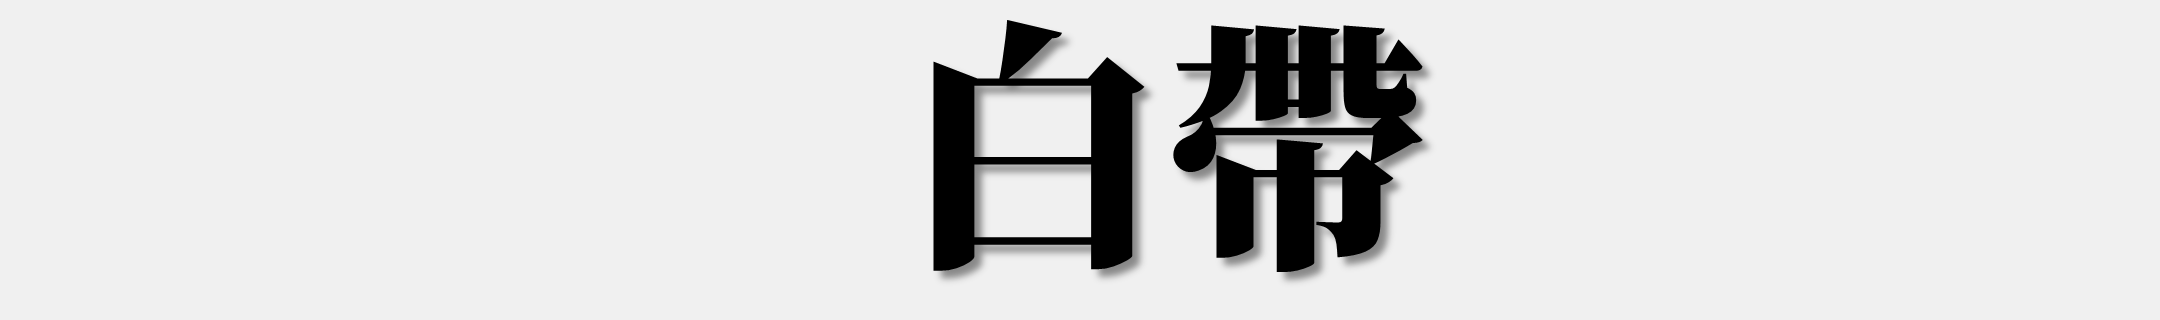
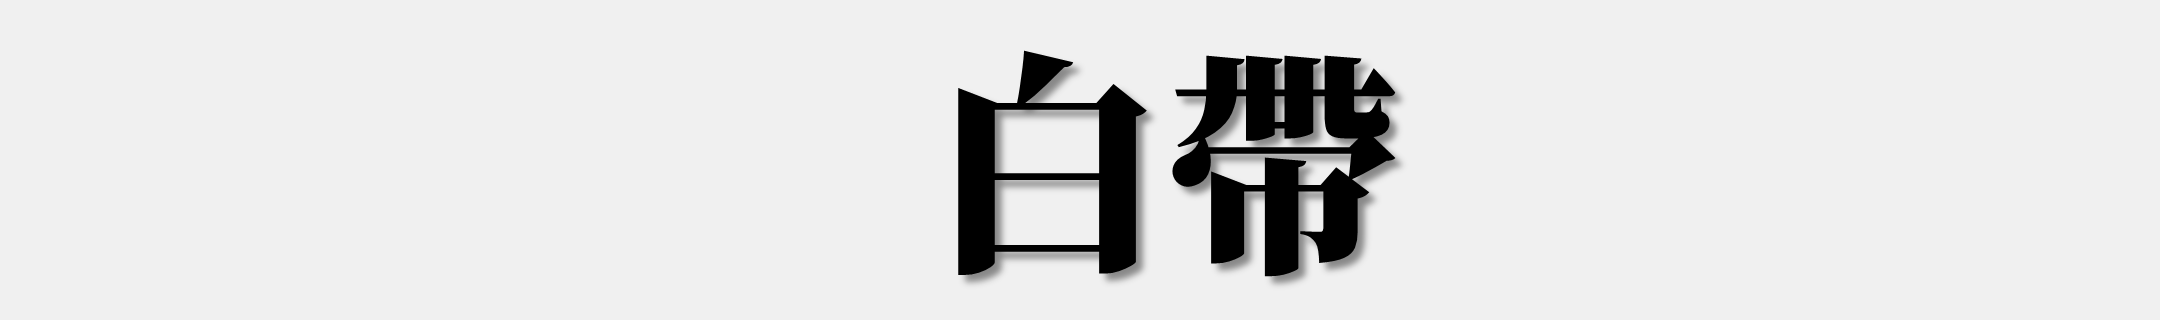
帯の絵を IMG333333R に替え、黒帯の地を #333333 にする
タイトル（3 枚）、黒帯の級とレベル（18 枚）、韓国語と中国語の白帯・黄帯の級（6 枚）が
6X10 と違っていた。ボタンと歯車、それ以外の級とレベルの絵は 6X10 と同じ中身。
回数と問題番号の字の色（プレハブの初期値）も GradeTheme.Black に合わせた。

Changed region(s): [[0.4343, 0.0625, 0.6824, 0.9062]]

diff --git a/Assets/Scripts/Editor/HeaderLayoutMigration.cs b/Assets/Scripts/Editor/HeaderLayoutMigration.cs
@@ -40,18 +40,15 @@ namespace Pentomino.EditorTools
         private const string PrefabPath = UiPrefabBuilder.HeaderPath;
 
         /// <summary>
-        /// 絵の原稿。Git には入らない DataBase 側にある。
+        /// 絵の原稿。Git には入らない Data_5x6x2 側にある。
         ///
-        ///   20260914R  黒帯の地が #101010 の版
-        ///   2026_BB55R 黒帯の地が #555555 の版
-        ///   2026_BB44R 黒帯の地が #444444 の版
-        ///   2026_BB222244R 黒帯の地が #222244（紺）の版
-        ///   2026_BB222222R 黒帯の地が #222222 の版（09-15 から試している）
+        ///   IMG333333R 黒帯の地が #333333 の版。6X10 の最終版 2026_BB222222R と同じ組で、
+        ///              タイトルの字と黒帯の地の色だけが違う
         ///
         /// 地の色は GradeTheme.Black と対にして変える。食い違うと、写すときに
         /// 地を置き換えた警告が出るので気づける。
         /// </summary>
-        private const string SourceFolder = "DataBase/2026_BB222222R";
+        private const string SourceFolder = "Data_5x6x2/IMG333333R";
 
         /// <summary>写し先。プレハブから参照するので Assets の中に置く。</summary>
         public const string ArtFolder = "Assets/Resources/UI/Header";

diff --git a/Assets/Scripts/View/GradeTheme.cs b/Assets/Scripts/View/GradeTheme.cs
@@ -23,11 +23,12 @@ namespace Pentomino.View
         /// 黒帯（Classic）の地。
         ///
         /// 真っ黒（#101010）ではピースの黒い外周線が地に溶けるので、
-        /// 少し明るい色にして様子を見ている（09-15: #555555 → #444444 → #222244 → #222222）。
+        /// 少し明るい色にしてある。6X10 で #555555 → #444444 → #222244 → #222222 と試し、
+        /// 5x6x2 では #333333 にした。
         /// 帯の絵（タイトル・級・レベル）の地も同じ色で描いてあるので、
         /// ここを変えるときは絵も差し替える（HeaderLayoutMigration.SourceFolder）。
         /// </summary>
-        public static readonly Color Black = new Color32(0x22, 0x22, 0x22, 0xFF);
+        public static readonly Color Black = new Color32(0x33, 0x33, 0x33, 0xFF);
 
         /// <summary>画面全体の地の色。</summary>
         public static Color Background(Difficulty difficulty)
